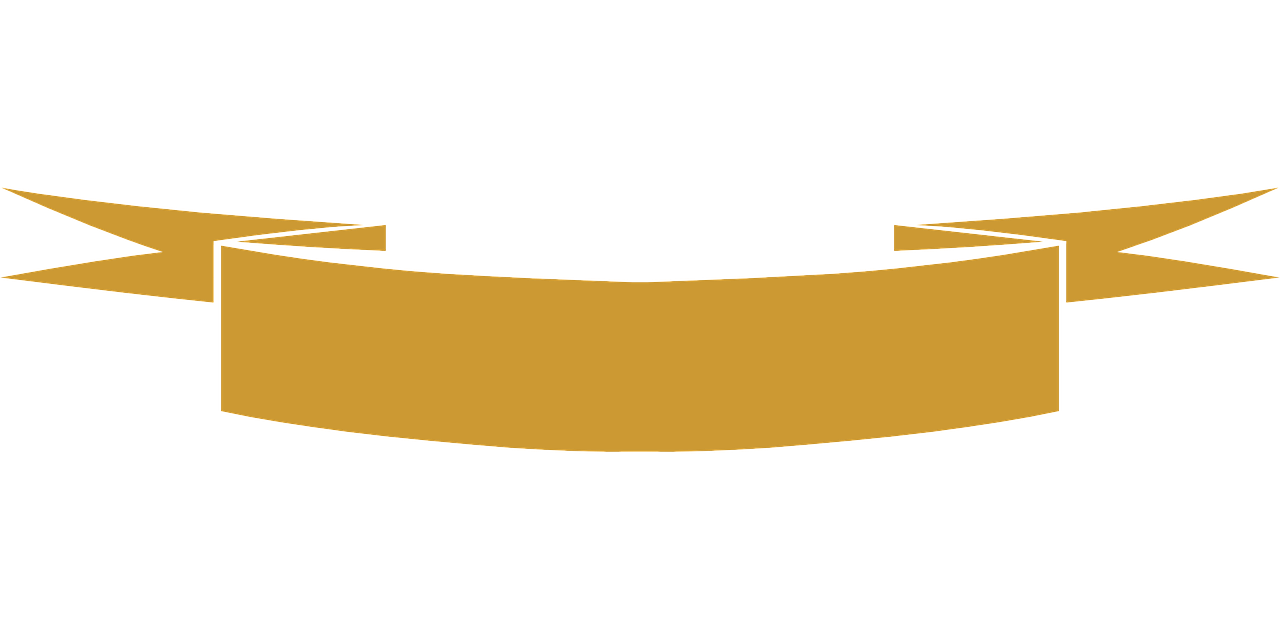
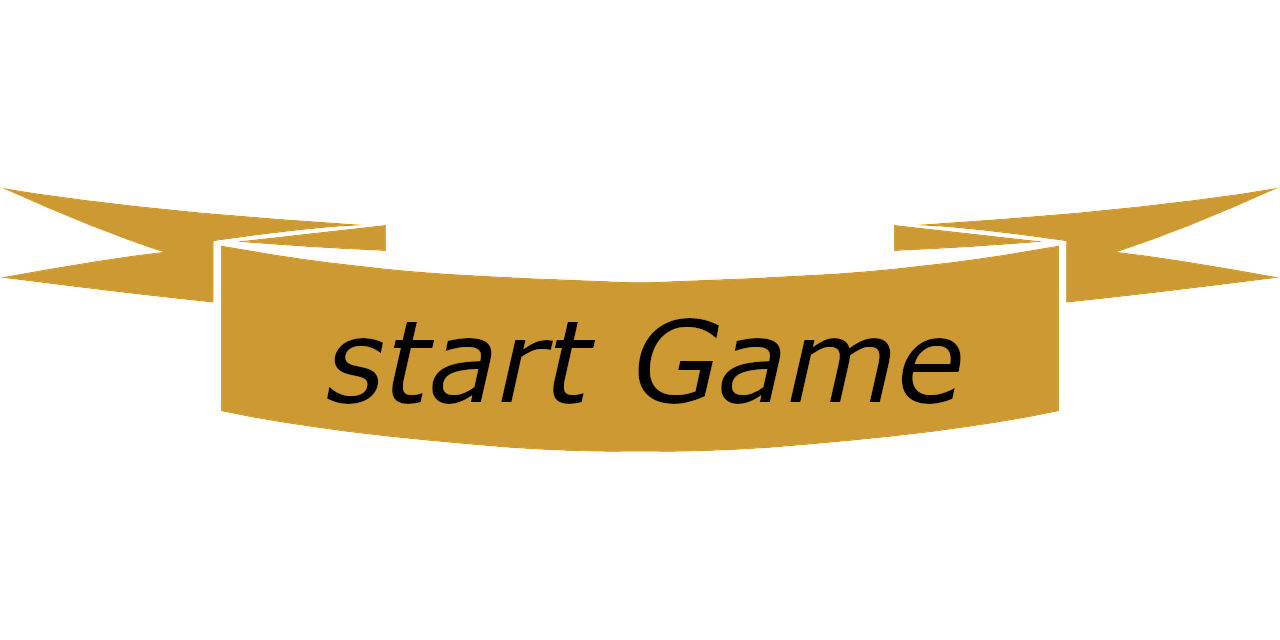
card changes , shuffle function

Changed region(s): [[0.5, 0.5, 0.75, 0.6562], [0.25, 0.5, 0.4688, 0.6562]]

diff --git a/src/app/start-screen/start-screen.component.html b/src/app/start-screen/start-screen.component.html
@@ -2,7 +2,10 @@
 
     <div class="card-container ">
         <img class="cards-left" src="./../../assets/img/cards/clubs_1.png" alt="ace1">
-        <img class="cards-left" src="./../../assets/img/cards/diamonds_1.png" alt="ace1">
+        <img class="cards-left card-covering" src="./../../assets/img/cards/diamonds_1.png" alt="ace1">
+        <img class="cards-left card-covering" src="./../../assets/img/cards/clubs_11.png" alt="ace1">
+        <img class="cards-left card-covering" src="./../../assets/img/cards/diamonds_11.png" alt="ace1">
+        
     </div>
     <div class="title-box">
         <h1>Ring<br>of<br>Fire</h1>
@@ -10,6 +13,13 @@
 
     <div class="card-container">
         <img class="cards-right" src="./../../assets/img/cards/ace_1.png" alt="ace1">
-        <img class="cards-right" src="./../../assets/img/cards/clubs_1.png" alt="ace1">
+        <img class="cards-right card-covering" src="./../../assets/img/cards/clubs_1.png" alt="ace1">
+        <img class="cards-right card-covering" src="./../../assets/img/cards/ace_11.png" alt="ace1">
+        <img class="cards-right card-covering" src="./../../assets/img/cards/clubs_11.png" alt="ace1">
     </div>
+
+    <div class="start-label-box">
+        <img (click)="newGame()" src="./../../assets/img/banner.png" alt="start-banner">
+    </div>
+
 </div>

diff --git a/src/app/game/game.component.scss b/src/app/game/game.component.scss
@@ -1,0 +1,53 @@
+.playground{
+    width: 100vw;
+    height: 100vh;
+    max-width: 100%;
+    background-image: url('./../../assets/img/background.jpg');
+    display: flex;
+    justify-content: center;
+    align-items: center;
+}
+
+.card-stack{
+    position: relative;
+    display: flex;
+    align-items: center;
+    justify-content: center;
+    img{
+        position: absolute;
+    }
+
+}
+
+.top-card{
+    cursor: pointer;
+    transition:all 200ms ease-in-out;
+
+    &:hover{
+        transform: scale(1.1) translateY(-10px);
+
+    }
+}
+
+.pick-top-card{
+    animation: pick-card-animation 1.25s ease-in-out;
+    transform: scale(1.3) translateY(180px) translateX(80px) rotate(20deg);
+}
+
+@keyframes pick-card-animation{
+    0%{
+        transform: scale(1);
+
+    }
+    30%{
+        transform: scale(1.7);
+    }
+    60%{
+        transform: scale(1.7);
+        
+    }
+    100%{
+        transform: scale(1.3 translateY(180px) translateX(80px) rotate(20deg));
+        
+    }
+}

diff --git a/src/modules/game.ts b/src/modules/game.ts
@@ -1,0 +1,36 @@
+export class Game {
+    public players: string[] = [];
+    public stack: string[] = [];
+    public playedCards: string[] = [];
+    public currentPlayer: number = 0;
+
+    constructor(){
+        for (let i = 0; i < 13; i++) {
+            this.stack.push('ace_'+ i);
+            this.stack.push('diamonds_'+ i);
+            this.stack.push('hearts_'+ i);
+            this.stack.push('clubs_'+ i);            
+        }
+        shuffle(this.stack);
+
+    }
+
+}
+
+function shuffle(array:string[]) {
+    let currentIndex = array.length,  randomIndex;
+  
+    // While there remain elements to shuffle.
+    while (currentIndex != 0) {
+  
+      // Pick a remaining element.
+      randomIndex = Math.floor(Math.random() * currentIndex);
+      currentIndex--;
+  
+      // And swap it with the current element.
+      [array[currentIndex], array[randomIndex]] = [
+        array[randomIndex], array[currentIndex]];
+    }
+  
+    return array;
+  }

diff --git a/src/app/start-screen/start-screen.component.scss b/src/app/start-screen/start-screen.component.scss
@@ -16,24 +16,28 @@
 .card-container{
     display: flex;
     flex-direction: column;
-    margin-top: 200px;
+    margin-top: 17px;
     z-index: 1;
 }
 
 .cards-right{
     rotate: 45deg;
-    margin-left: -50px;
+    margin-left: -38px;
 }
 
 .cards-left{
     rotate: -45deg;
-    margin-right: -50px;
+    margin-right: -38px;
+}
+
+.card-covering{
+    margin-top: -68px;
 }
 
 .title-box{
-    width: 40%;
+    width: 30%;
     background-color: rgb(87, 23, 23);
-    border: 20px solid #ffea00;
+    border: 14px solid #C78C00;
     display: flex;
     align-items: flex-start;
     justify-content: center;
@@ -45,4 +49,23 @@
         font-size: 50px;
     }
 
+}
+
+.start-label-box{
+    position: absolute;
+    left: 0;
+    right: 0;
+    top: 390px;
+    display: flex;
+    justify-content: center;
+    z-index: 3;
+    
+    img{
+        width: 40vw;
+    }
+
+    &:hover{
+        filter: brightness(1.25);
+        cursor: pointer;
+    }
 }

diff --git a/src/app/game/game.component.html b/src/app/game/game.component.html
@@ -1,0 +1,13 @@
+<div class="playground">
+    <div class="card-stack">
+        <img *ngFor="let c of [0, 1, 2, 3, 4]; let i = index;" [ngStyle]="{'right.px': i * 5}"
+         src="./../../assets/img/cards/card_cover.png" alt="card-cover">
+
+         <img  class="top-card" [ngStyle]="{'right.px': 25}"
+         (click)="pickCard()" src="./../../assets/img/cards/card_cover.png" alt="card-cover">
+
+         <img *ngIf="pickedCard" class="pick-top-card" [ngStyle]="{'right.px': 25}"
+         (click)="pickCard()" src="./../../assets/img/cards/diamonds_1.png" alt="card-cover">
+         
+    </div>
+</div>

diff --git a/src/app/game/game.component.spec.ts b/src/app/game/game.component.spec.ts
@@ -1,0 +1,21 @@
+import { ComponentFixture, TestBed } from '@angular/core/testing';
+
+import { GameComponent } from './game.component';
+
+describe('GameComponent', () => {
+  let component: GameComponent;
+  let fixture: ComponentFixture<GameComponent>;
+
+  beforeEach(() => {
+    TestBed.configureTestingModule({
+      declarations: [GameComponent]
+    });
+    fixture = TestBed.createComponent(GameComponent);
+    component = fixture.componentInstance;
+    fixture.detectChanges();
+  });
+
+  it('should create', () => {
+    expect(component).toBeTruthy();
+  });
+});

diff --git a/src/app/game/game.component.ts b/src/app/game/game.component.ts
@@ -1,0 +1,31 @@
+import { Component, OnInit } from '@angular/core';
+import { Game } from 'src/modules/game';
+
+@Component({
+  selector: 'app-game',
+  templateUrl: './game.component.html',
+  styleUrls: ['./game.component.scss']
+})
+export class GameComponent implements OnInit {
+  pickedCard = false;
+  game !: Game;
+
+  constructor() {
+
+  }
+
+  ngOnInit(): void {
+    this.newGame();
+    console.log(this.game);
+  }
+
+  newGame() {
+    this.game = new Game();
+  }
+
+  pickCard() {
+    this.pickedCard = true;
+
+  }
+
+}

diff --git a/src/app/app.module.ts b/src/app/app.module.ts
@@ -4,11 +4,13 @@ import { BrowserModule } from '@angular/platform-browser';
 import { AppRoutingModule } from './app-routing.module';
 import { AppComponent } from './app.component';
 import { StartScreenComponent } from './start-screen/start-screen.component';
+import { GameComponent } from './game/game.component';
 
 @NgModule({
   declarations: [
     AppComponent,
-    StartScreenComponent
+    StartScreenComponent,
+    GameComponent
   ],
   imports: [
     BrowserModule,

diff --git a/src/app/app-routing.module.ts b/src/app/app-routing.module.ts
@@ -1,9 +1,11 @@
 import { NgModule } from '@angular/core';
 import { RouterModule, Routes } from '@angular/router';
 import { StartScreenComponent } from './start-screen/start-screen.component';
+import { GameComponent } from './game/game.component';
 
 const routes: Routes = [
-  { path: '', component: StartScreenComponent }
+  { path: '', component: StartScreenComponent },
+  { path: 'game', component: GameComponent}
 ];
 
 @NgModule({

diff --git a/src/app/start-screen/start-screen.component.ts b/src/app/start-screen/start-screen.component.ts
@@ -1,4 +1,5 @@
 import { Component } from '@angular/core';
+import { Router } from '@angular/router';
 
 @Component({
   selector: 'app-start-screen',
@@ -7,4 +8,15 @@ import { Component } from '@angular/core';
 })
 export class StartScreenComponent {
 
+  constructor(private router : Router){
+
+  }
+
+
+ newGame(){
+   this.router.navigateByUrl('/game');
+ }
+
 }
+
+
